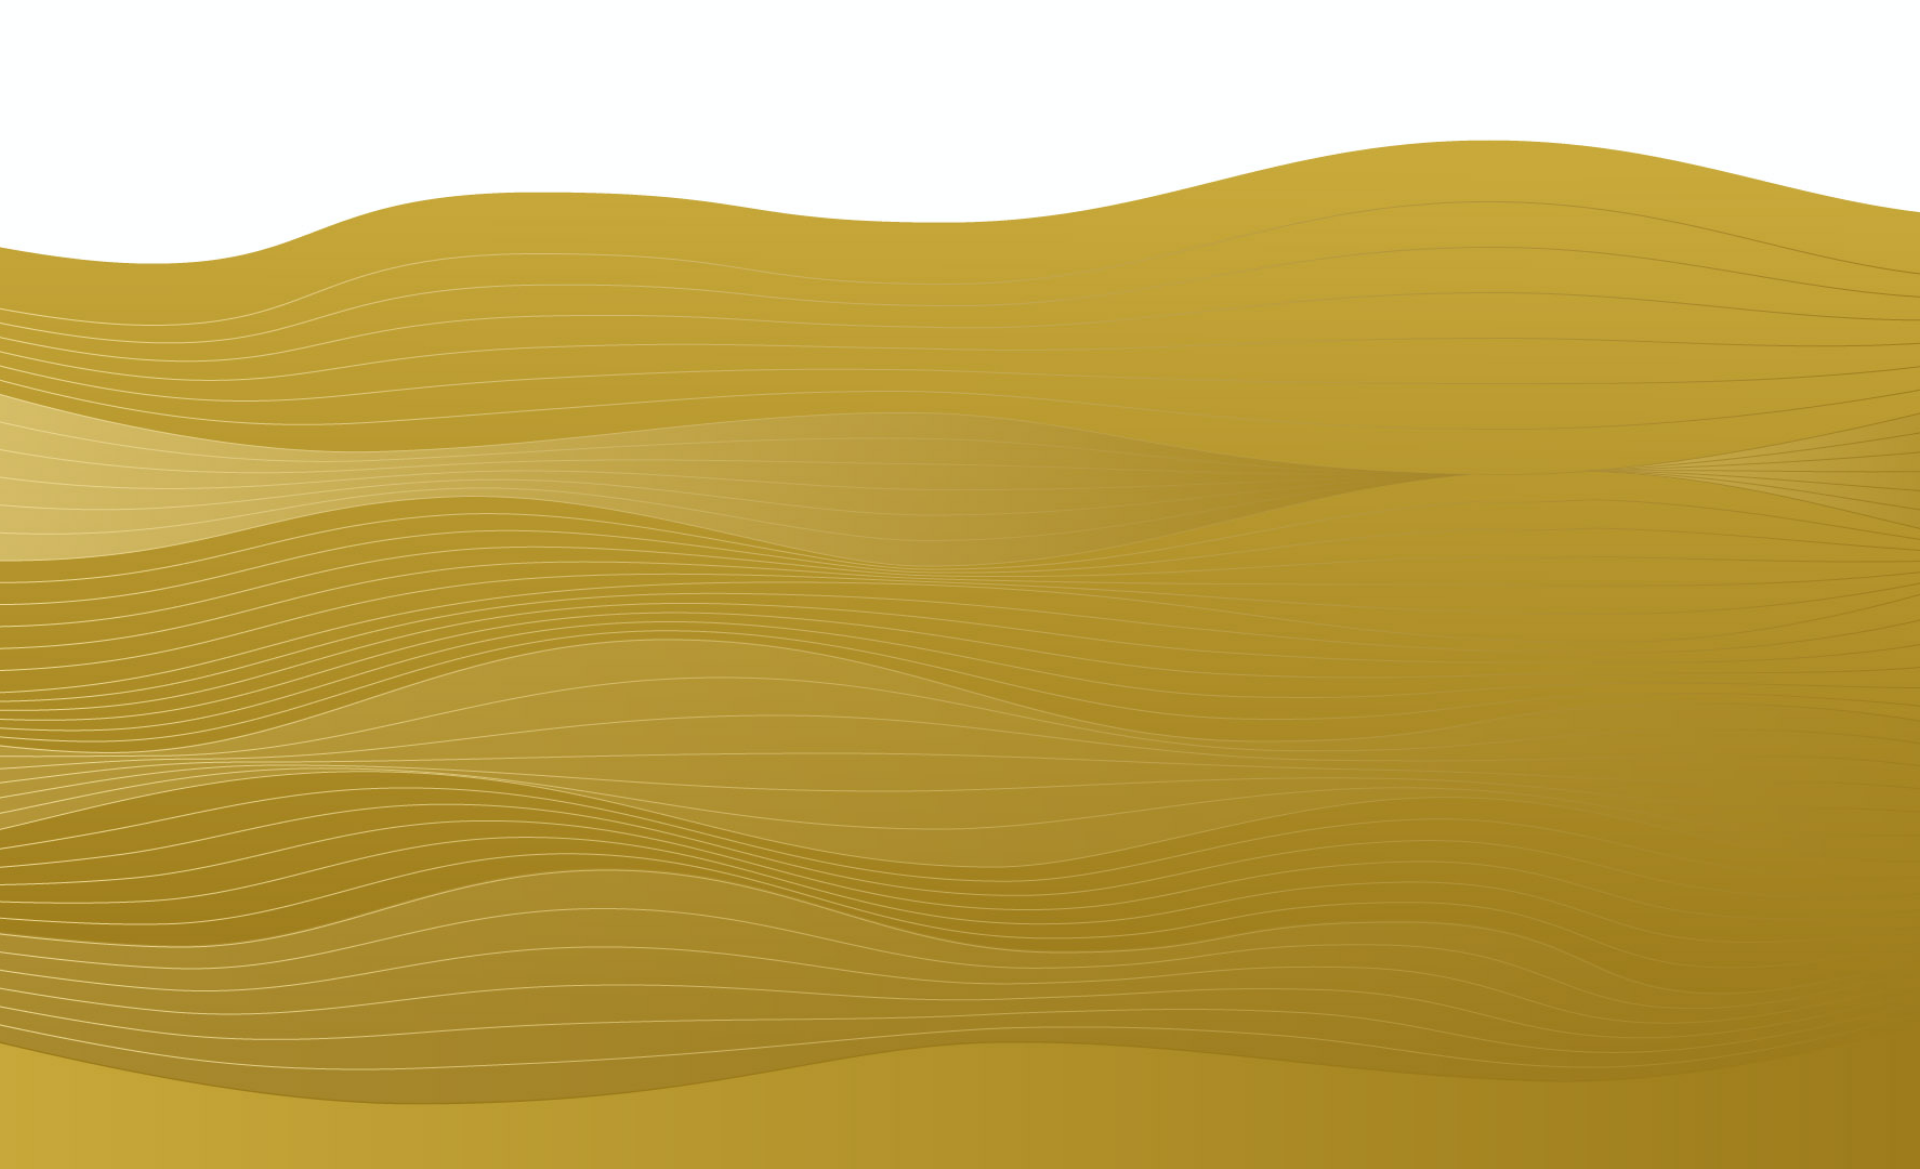
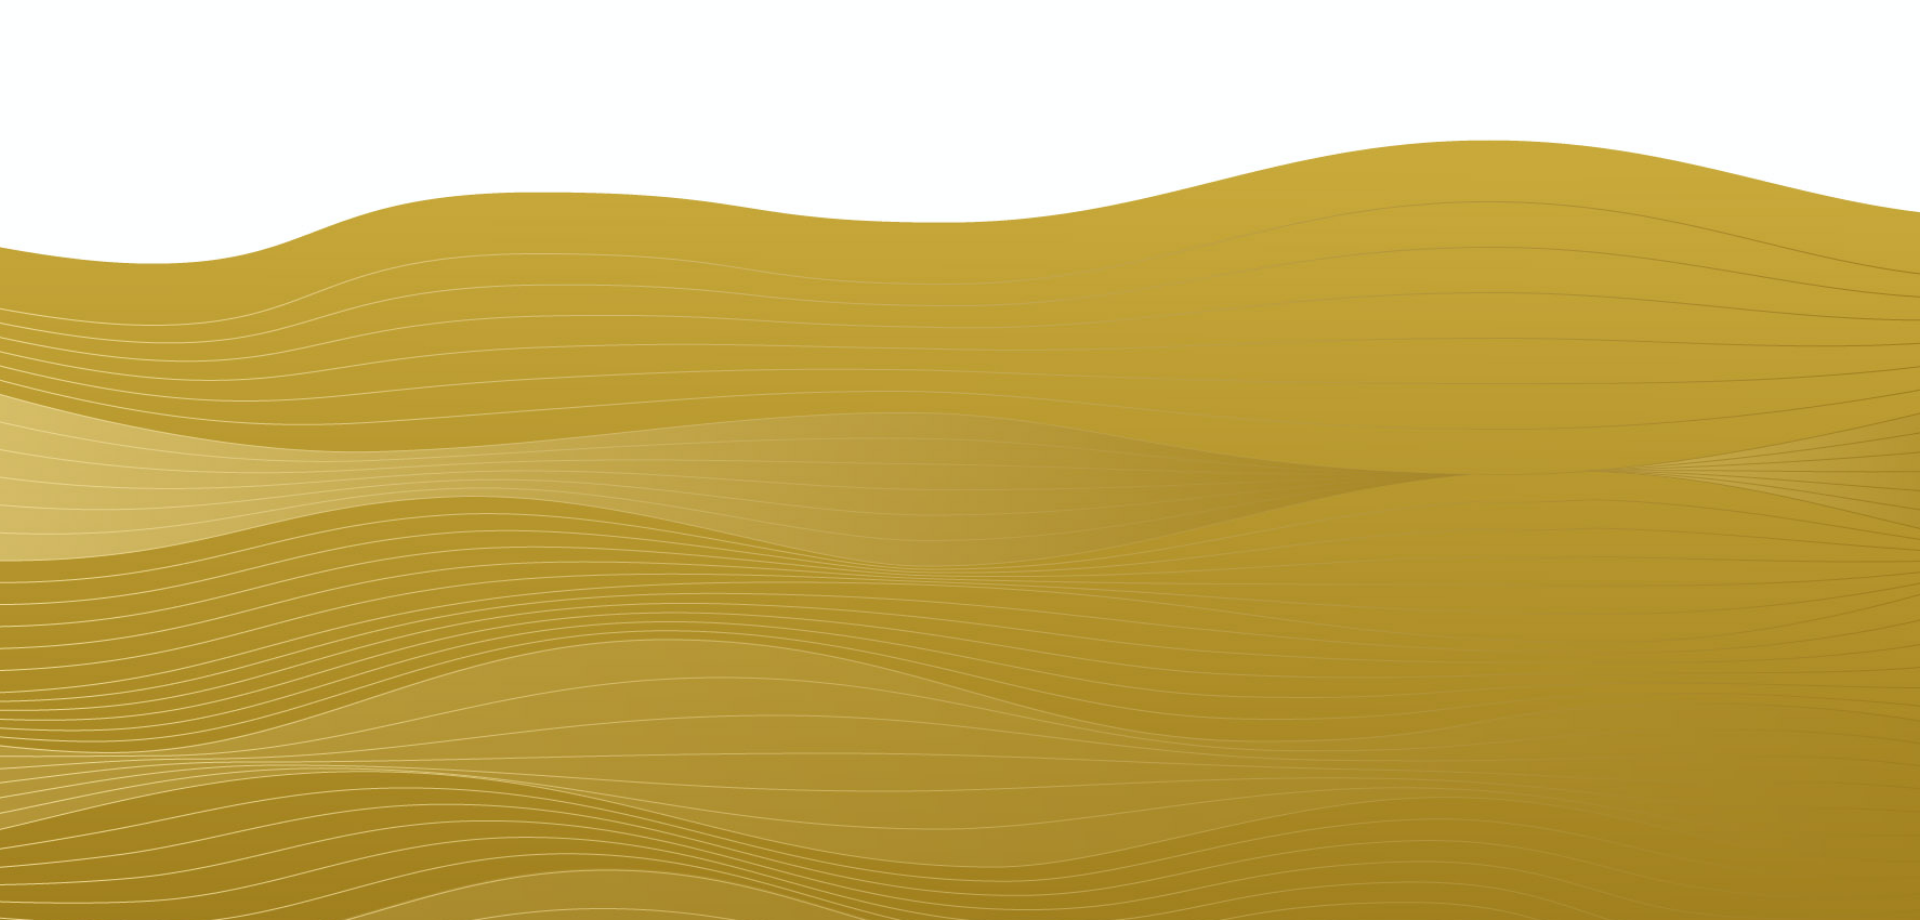
Fix assets, purchase form responsiveness

diff --git a/ui/app/src/views/Main.vue b/ui/app/src/views/Main.vue
@@ -1,21 +1,41 @@
 <template>
-  <main class="main">
-    <img class="header" src="../assets/header-welcome.svg">
-    <slot></slot>
-    <img class="footer" src="../assets/footer-small.png">
+  <main class="wrapper">
+    <img class="header" src="../assets/header.svg">
+    <div class="content">
+      <Timer v-if="showTimer" />
+      <PurchaseForm v-else />
+    </div>
+    <img class="footer" src="../assets/footer.png">
   </main>
 </template>
 
 <script>
-export default {
+  import PurchaseForm from "@/views/PurchaseForm.vue";
+  import Timer from "@/views/Timer.vue";
+  import { defineComponent } from "vue";
 
-}
+  export default defineComponent({
+    name: "Main",
+    setup() {
+      // TODO: change to Dec 10, 2020 before going to mainnet
+      const tokenSaleStartDate = Date.UTC(2020, 10, 10, 0, 0, 0, 0); // Nov 10, 2020 to show purchase form while testing
+      const showTimer = tokenSaleStartDate > Date.now();
+
+      return {
+        showTimer
+      }
+    },
+    components: {
+      PurchaseForm,
+      Timer
+    },
+  });
 </script>
 
 <style lang="scss">
-  .main {
-    width: 100vw;
-    min-height: 100vh;
+  .wrapper {
+    width: 100%;
+    min-height: 100%;
     display: flex;
     flex-direction: column;
     justify-content: center;
@@ -28,6 +48,10 @@ export default {
     height: 130px;
     margin-top: 64px;
     margin-bottom: 32px;
+  }
+  .content {
+    width: 96%;
+    max-width: 410px;
   }
   .footer {
     width: 100%;

diff --git a/ui/app/src/views/PurchaseForm.vue b/ui/app/src/views/PurchaseForm.vue
@@ -24,7 +24,7 @@
       }
 
       async function validateKey() {
-        store.purchase.validKey = await actions.isValidKey(store.purchase.unhashedKey);
+        store.purchase.validKey = await actions.validateKey(store.purchase.unhashedKey);
       }
 
       async function getRowanEstimate() {
@@ -381,7 +381,7 @@
     </div>
     <p class="kyc-help-text" v-if="!store.wallet.connected || !store.wallet.whitelisted">
       Please note: This app is only for users that have already been approved to participate in the Sifchain Token Sale.
-      If you have not been approved, you may apply <a href="https://sifchain.finance/" target="_blank" style="color: #000000">here</a>.
+      If you have not been approved, you may apply <a href="https://tokensale.sifchain.finance" target="_blank" style="color: #000000">here</a>.
       Please remember to use the wallet address you provided us in your KYC information.
       Any transactions from unapproved wallet addresses will be rejected.
     </p>
@@ -393,7 +393,6 @@
     color: $c_gray_400
   }
   .kyc-help-text {
-    width: 410px;
     margin-top: 16px;
     padding: 8px;
     font-weight: normal;
@@ -401,7 +400,6 @@
     color:$c_text
   }
   .purchase-form {
-    width: 410px;
     border-radius: $br_lg;
     overflow: hidden;
     border-color: $c_gray_150;

diff --git a/ui/app/src/router/index.ts b/ui/app/src/router/index.ts
@@ -1,12 +1,12 @@
 import { createRouter, createWebHistory, RouteRecordRaw } from "vue-router";
-import Home from "@/views/Home.vue";
+import Main from "@/views/Main.vue";
 import Timer from "@/views/Timer.vue";
 
 const routes: Array<RouteRecordRaw> = [
   {
     path: "/",
-    name: "Home",
-    component: Home,
+    name: "Main",
+    component: Main,
   },
   {
     path: "/timer",
